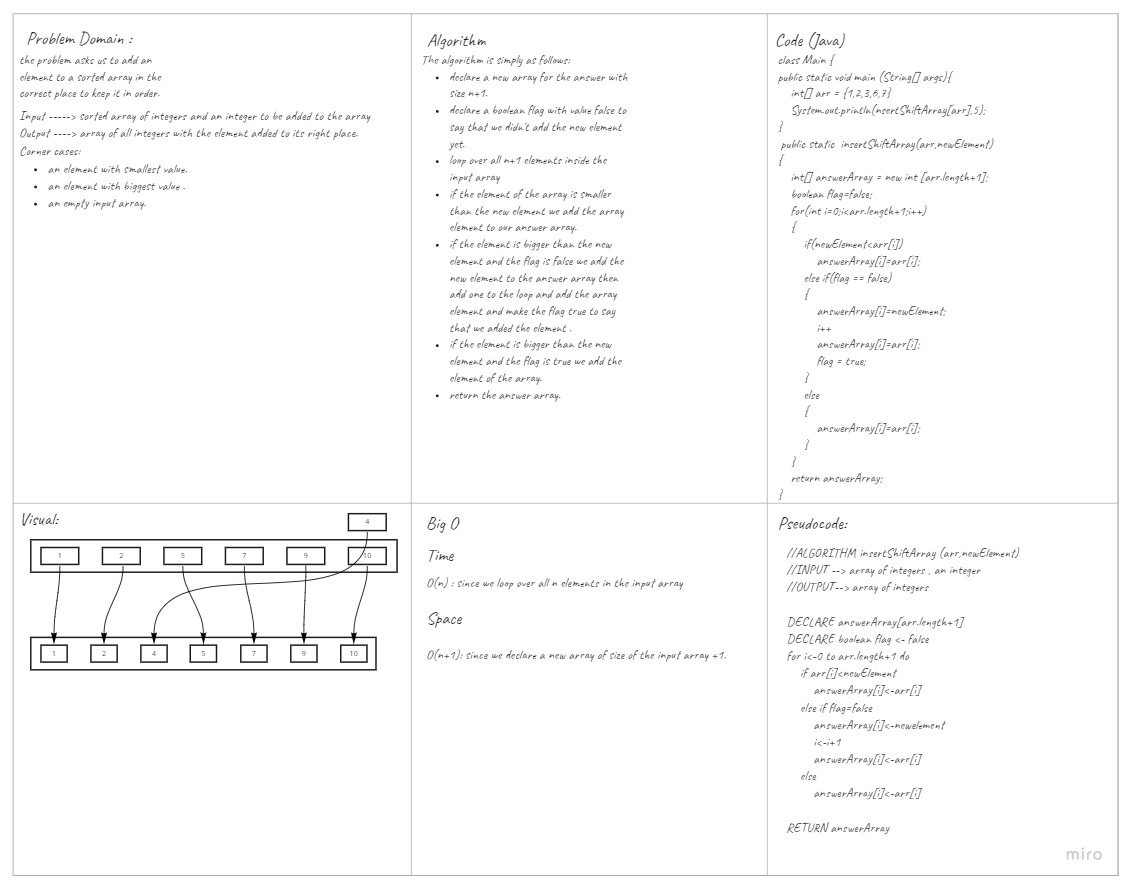
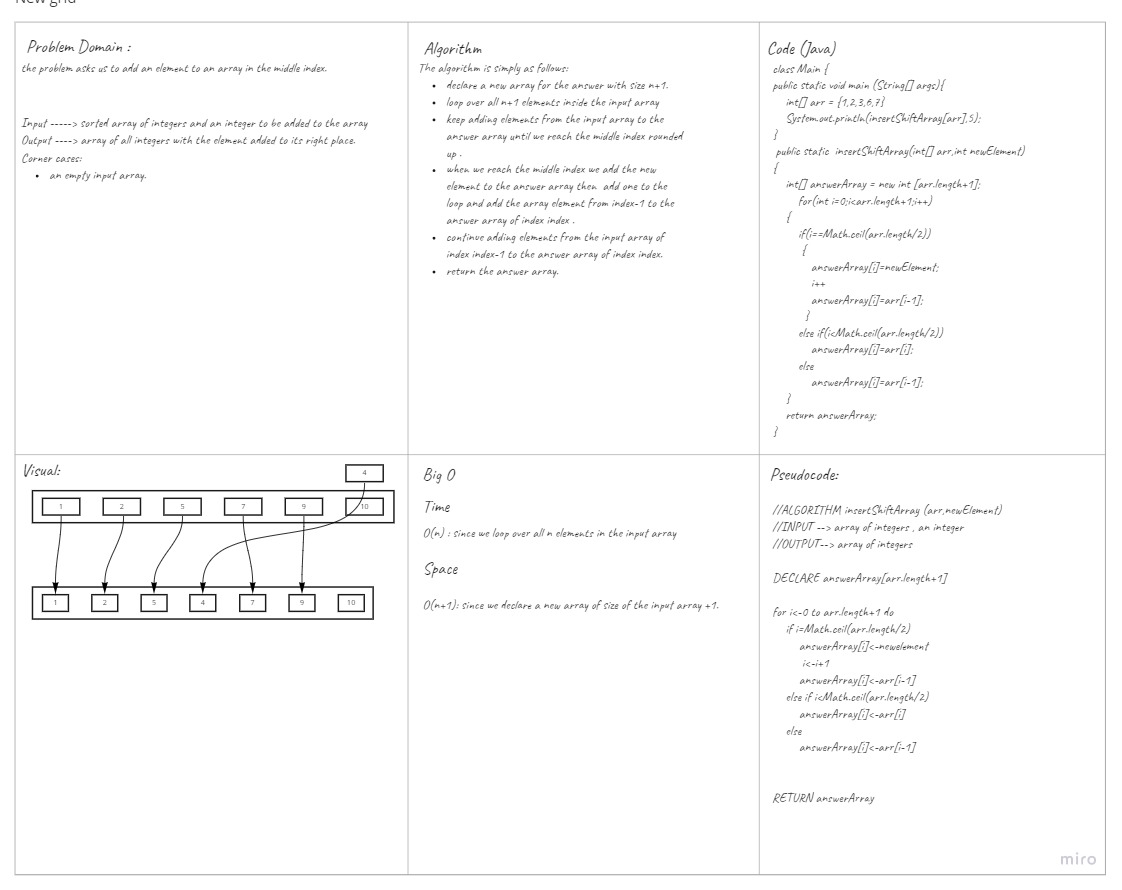
fixing codes bugs and resubmitting

diff --git a/array-binary-search/array-binary-search.md b/array-binary-search/array-binary-search.md
@@ -1,8 +1,15 @@
 # array-binary-search
 <!-- Description of the challenge -->
-The challenge  asks us to look for an element inside a sorted array and return its index , and return -1 if not found.
+The challenge  asks us to look for an element inside a sorted array and return its index , and return -1 if not found using `binary search` algorithm.
 ## Whiteboard Process
 <!-- Embedded whiteboard image -->
 ![array-binary-search algorithm whiteboard](./array-binary-search.jpg)
 ## Approach & Efficiency
 <!-- What approach did you take? Discuss Why. What is the Big O space/time for this approach? -->
+Binary search is a very known algorithm to search over an element in a sorted array fast since it takes complexity of O(log(n)).
+How does binary search work? 
+we will have 3 main values which are low value pointing on the lower boundry of the range we are searching in , and high value for the higher boundry and mid for the middle index between low and high. 
+each time and while low is still less than high we check the mid value , if it is the element we are looking for , we found it !
+otherwise, if the element is bigger than the mid element then we don't need to look for it in the left side since the array is sorted and all elements on the left are smaller than the midlle index , so we make the low bound equals mid index+1 because we already checked the mid index. and the same if it was smaller than the mid index , all elements to the right will be bigger than the mid element and we don't have to check for than since the array is sorted so we make the high bound equals mid index-1.
+we keep doing that untill we either find the element inside the mid or low becomes bigger than high then we know that the element doesn't exist in the array. 
+

diff --git a/array-insert-shift/array-insert-shift.md b/array-insert-shift/array-insert-shift.md
@@ -1,12 +1,11 @@
 # array-insert-shift
 <!-- Description of the challenge -->
-The challenge  asks us to add an element to a sorted array in the correct place to keep it in order.
+The challenge asks us to create `array-insert-shift` method to add an element to the middle of the given array.
 ## Whiteboard Process
 <!-- Embedded whiteboard image -->
 ![array-insert-shift algorithm whiteboard](./array-insert-shift.jpg)
 ## Approach & Efficiency
 <!-- What approach did you take? Discuss Why. What is the Big O space/time for this approach? -->
-I took the approach to simply loop over the input array and check if the added value is still bigger than the element in the array I will add the element in the array to the answer array.  
-when I find the first element bigger than the new element I add the new element then the first bigger element by increasing the value of the loop counter.
-after that I add the remaining elements to the array.  
-to know that this is the first bigger element I used a boolean falg with initial value false and when I find the value I turn it into true.
+I took the approach to simply loop over the input array and check if my index is less than the middle index rounded up I will add the element in the array to the answer array.  
+when I find the middle index I add the new element then the first bigger element by increasing the value of the loop counter.
+after that I add the remaining elements from the input array of index index-1 to the answer array of index index.  

diff --git a/array-reverse/array-reverse.md b/array-reverse/array-reverse.md
@@ -4,7 +4,7 @@ The challenge wants us to create `ReverseArray` method that takes an array of in
 
 ## Whiteboard Process
 <!-- Embedded whiteboard image -->
-![ReverseArray algorithm whiteboard](./Challenge01.jpg)
+![ReverseArray algorithm whiteboard](./array-reverse.jpg)
 ## Approach & Efficiency
 <!-- What approach did you take? Discuss Why. What is the Big O space/time for this approach? -->
 I took the approach to simply loop over the input array and assign its values to the newArray in the proper index for it to be reversed. 
